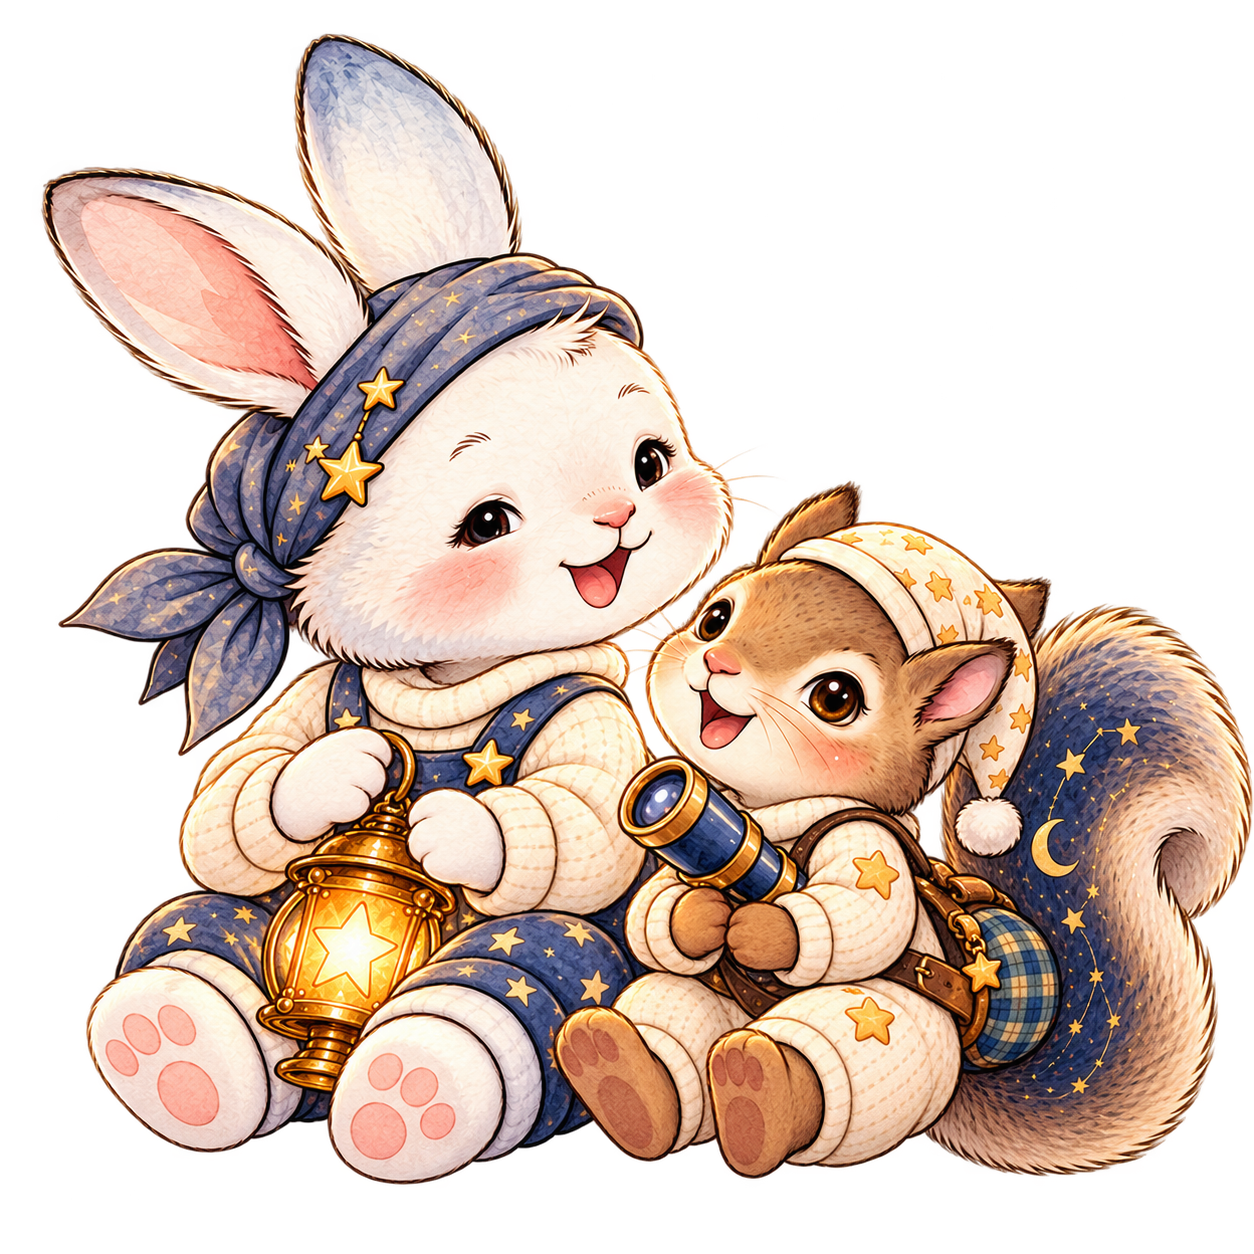
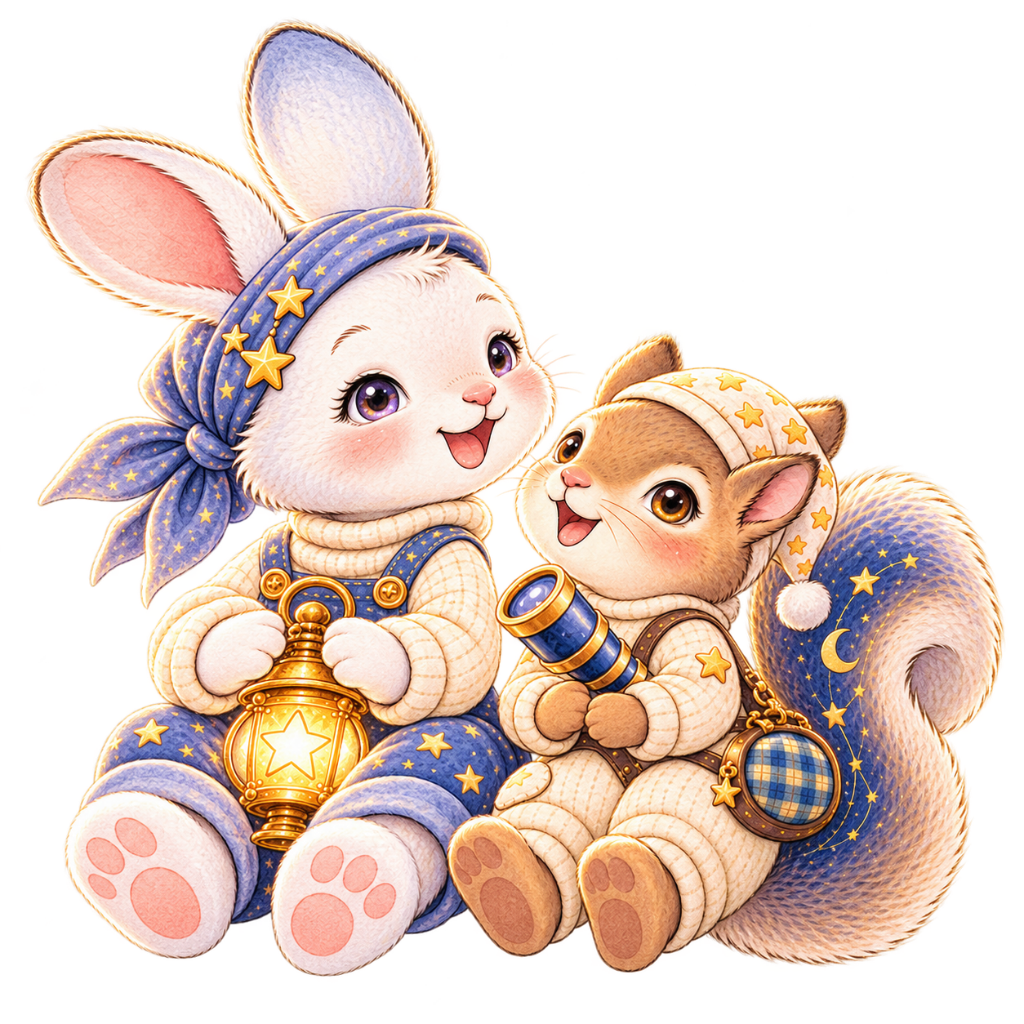
Replace intro art with new Lune & Pico designs; cache-bust intro images
- intro-cover-lune-pico.png (ja): walking/looking-back composition
- intro-lune-pico.png (en/ko): sitting/smiling composition
- File names kept; ?v=20261124 added to intro img src

Claude-Session: https://claude.ai/code/session_01LVGh7xgPiA2XyEN27wRH22

diff --git a/index.html b/index.html
@@ -59,7 +59,7 @@
 <body>
   <div class="sky"></div><div class="aurora"></div><div class="sky-decor" id="skyDecor" aria-hidden="true"></div>
   <main>
-    <section id="intro" class="screen active"><div class="hero-card"><img class="hero-art" id="introArt" src="./img/intro-cover-lune-pico.png" alt=""><div class="hero-overlay"><div class="hero-copy"><div class="brand">Rainy Muse</div><div class="subhead" id="subhead"></div><h1>Sleeping Stars</h1><p class="lead" id="lead"></p><p class="detail" id="detail"></p><div class="meta" id="meta"></div><button class="primary hero-start" id="start"></button><nav class="lang-switch" aria-label="Language"><a data-lang="ja" href="./">日本語</a><a data-lang="en" href="./en/">English</a><a data-lang="ko" href="./ko/">한국어</a></nav><p class="notice" id="notice"></p></div></div></div></section>
+    <section id="intro" class="screen active"><div class="hero-card"><img class="hero-art" id="introArt" src="./img/intro-cover-lune-pico.png?v=20261124" alt=""><div class="hero-overlay"><div class="hero-copy"><div class="brand">Rainy Muse</div><div class="subhead" id="subhead"></div><h1>Sleeping Stars</h1><p class="lead" id="lead"></p><p class="detail" id="detail"></p><div class="meta" id="meta"></div><button class="primary hero-start" id="start"></button><nav class="lang-switch" aria-label="Language"><a data-lang="ja" href="./">日本語</a><a data-lang="en" href="./en/">English</a><a data-lang="ko" href="./ko/">한국어</a></nav><p class="notice" id="notice"></p></div></div></div></section>
     <section id="quiz" class="screen quiz"><header class="quiz-head"><div class="step" id="step"></div><div class="progress"><i id="bar"></i></div><h2 id="fieldTitle"></h2><p class="hint" id="choiceGuide"></p><div class="counter"><span id="counterLabel"></span><strong id="count">0</strong></div></header><div class="star-words" id="words"></div><div class="quiz-actions"><button class="secondary" id="back"></button><button class="primary" id="next"></button></div></section>
     <section id="tie" class="screen tie"><div class="brand" id="tieBrand"></div><h2 id="tieTitle"></h2><p id="tieLead"></p><div class="tie-choices" id="tieChoices"></div></section>
     <section id="result" class="screen result"><div class="brand" id="resultBrand"></div><h2 id="resultType"></h2><p class="result-sub" id="resultName"></p><div class="constellation" id="constellation"></div><div class="panel"><h3 id="pickedTitle"></h3><div class="picked" id="picked"></div></div><div class="insights"><article class="panel"><h3 id="insight0"></h3><p id="attract"></p></article><article class="panel"><h3 id="insight1"></h3><p id="value"></p></article><article class="panel"><h3 id="insight2"></h3><p id="tired"></p></article><article class="panel"><h3 id="insight3"></h3><p id="hintText"></p></article></div><article class="panel"><h3 id="overlapTitle"></h3><p id="blend"></p></article><section class="family-reveal"><p class="family-lead" id="familyLead"></p><div class="family-card"><div class="family-duo-wrap"><img id="familyDuoImage" class="family-duo-image" alt=""></div><p class="family-name" id="familyName"></p><p class="family-reading" id="familyReading"></p><p class="family-type" id="familyType"></p><p class="family-caption" id="familyCaption"></p></div></section><section class="save-area"><h3 id="saveTitle"></h3><p id="saveLead"></p><div class="save-actions"><button class="primary" id="saveWallpaper"></button><button class="secondary" id="saveShare"></button></div></section><div class="card-cta" id="cardCta" hidden><p id="cardLead"></p><img id="cardImg" alt=""><a class="card-button" id="cardLink" download></a></div><div class="cta" id="paidCta"><p id="paidLead"></p><div class="cta-card"><h3 id="paidHeading"></h3><ul id="paidFeatures" class="cta-features"></ul></div><a class="primary" id="paidLink" target="_blank" rel="noopener"></a></div><div class="line-cta" id="lineCta"><p id="lineLead"></p><a class="line-button" id="lineLink" target="_blank" rel="noopener"></a></div><div class="story-link"><p id="storyLead"></p><a id="storyLink" target="_blank" rel="noopener"></a><small id="storySource"></small></div><button class="secondary restart" id="restart"></button></section>

diff --git a/en/index.html b/en/index.html
@@ -30,7 +30,7 @@
 <body>
   <div class="sky"></div><div class="aurora"></div><div class="sky-decor" id="skyDecor" aria-hidden="true"></div>
   <main>
-    <section id="intro" class="screen active"><div class="intro-card"><div class="brand">Rainy Muse</div><div class="moon"></div><div class="subhead" id="subhead"></div><h1>Sleeping Stars</h1><p class="lead" id="lead"></p><p class="detail" id="detail"></p><img class="intro-art" id="introArt" src="../img/intro-lune-pico.png" alt=""><div class="meta" id="meta"></div><button class="primary" id="start"></button><nav class="lang-switch" aria-label="Language"><a data-lang="ja" href="../">日本語</a><a data-lang="en" href="../en/">English</a><a data-lang="ko" href="../ko/">한국어</a></nav><p class="notice" id="notice"></p></div></section>
+    <section id="intro" class="screen active"><div class="intro-card"><div class="brand">Rainy Muse</div><div class="moon"></div><div class="subhead" id="subhead"></div><h1>Sleeping Stars</h1><p class="lead" id="lead"></p><p class="detail" id="detail"></p><img class="intro-art" id="introArt" src="../img/intro-lune-pico.png?v=20261124" alt=""><div class="meta" id="meta"></div><button class="primary" id="start"></button><nav class="lang-switch" aria-label="Language"><a data-lang="ja" href="../">日本語</a><a data-lang="en" href="../en/">English</a><a data-lang="ko" href="../ko/">한국어</a></nav><p class="notice" id="notice"></p></div></section>
     <section id="quiz" class="screen quiz"><header class="quiz-head"><div class="step" id="step"></div><div class="progress"><i id="bar"></i></div><h2 id="fieldTitle"></h2><p class="hint" id="choiceGuide"></p><div class="counter"><span id="counterLabel"></span><strong id="count">0</strong></div></header><div class="star-words" id="words"></div><div class="quiz-actions"><button class="secondary" id="back"></button><button class="primary" id="next"></button></div></section>
     <section id="tie" class="screen tie"><div class="brand" id="tieBrand"></div><h2 id="tieTitle"></h2><p id="tieLead"></p><div class="tie-choices" id="tieChoices"></div></section>
     <section id="result" class="screen result"><div class="brand" id="resultBrand"></div><h2 id="resultType"></h2><p class="result-sub" id="resultName"></p><div class="constellation" id="constellation"></div><div class="panel"><h3 id="pickedTitle"></h3><div class="picked" id="picked"></div></div><div class="insights"><article class="panel"><h3 id="insight0"></h3><p id="attract"></p></article><article class="panel"><h3 id="insight1"></h3><p id="value"></p></article><article class="panel"><h3 id="insight2"></h3><p id="tired"></p></article><article class="panel"><h3 id="insight3"></h3><p id="hintText"></p></article></div><article class="panel"><h3 id="overlapTitle"></h3><p id="blend"></p></article><section class="family-reveal"><p class="family-lead" id="familyLead"></p><div class="family-card"><div class="family-duo-wrap"><img id="familyDuoImage" class="family-duo-image" alt=""></div><p class="family-name" id="familyName"></p><p class="family-reading" id="familyReading" hidden></p><p class="family-type" id="familyType"></p><p class="family-caption" id="familyCaption"></p></div></section><section class="save-area"><h3 id="saveTitle"></h3><p id="saveLead"></p><div class="save-actions"><button class="primary" id="saveWallpaper"></button><button class="secondary" id="saveShare"></button></div></section><div class="card-cta" id="cardCta" hidden><p id="cardLead"></p><img id="cardImg" alt=""><a class="card-button" id="cardLink" download></a></div><div class="cta"><p id="paidLead"></p><a class="primary" id="paidLink" target="_blank" rel="noopener"></a></div><div class="story-link"><p id="storyLead"></p><a id="storyLink" target="_blank" rel="noopener"></a><small id="storySource"></small></div><button class="secondary restart" id="restart"></button></section>

diff --git a/ko/index.html b/ko/index.html
@@ -30,7 +30,7 @@
 <body>
   <div class="sky"></div><div class="aurora"></div><div class="sky-decor" id="skyDecor" aria-hidden="true"></div>
   <main>
-    <section id="intro" class="screen active"><div class="intro-card"><div class="brand">Rainy Muse</div><div class="moon"></div><div class="subhead" id="subhead"></div><h1>Sleeping Stars</h1><p class="lead" id="lead"></p><p class="detail" id="detail"></p><img class="intro-art" id="introArt" src="../img/intro-lune-pico.png" alt=""><div class="meta" id="meta"></div><button class="primary" id="start"></button><nav class="lang-switch" aria-label="Language"><a data-lang="ja" href="../">日本語</a><a data-lang="en" href="../en/">English</a><a data-lang="ko" href="../ko/">한국어</a></nav><p class="notice" id="notice"></p></div></section>
+    <section id="intro" class="screen active"><div class="intro-card"><div class="brand">Rainy Muse</div><div class="moon"></div><div class="subhead" id="subhead"></div><h1>Sleeping Stars</h1><p class="lead" id="lead"></p><p class="detail" id="detail"></p><img class="intro-art" id="introArt" src="../img/intro-lune-pico.png?v=20261124" alt=""><div class="meta" id="meta"></div><button class="primary" id="start"></button><nav class="lang-switch" aria-label="Language"><a data-lang="ja" href="../">日本語</a><a data-lang="en" href="../en/">English</a><a data-lang="ko" href="../ko/">한국어</a></nav><p class="notice" id="notice"></p></div></section>
     <section id="quiz" class="screen quiz"><header class="quiz-head"><div class="step" id="step"></div><div class="progress"><i id="bar"></i></div><h2 id="fieldTitle"></h2><p class="hint" id="choiceGuide"></p><div class="counter"><span id="counterLabel"></span><strong id="count">0</strong></div></header><div class="star-words" id="words"></div><div class="quiz-actions"><button class="secondary" id="back"></button><button class="primary" id="next"></button></div></section>
     <section id="tie" class="screen tie"><div class="brand" id="tieBrand"></div><h2 id="tieTitle"></h2><p id="tieLead"></p><div class="tie-choices" id="tieChoices"></div></section>
     <section id="result" class="screen result"><div class="brand" id="resultBrand"></div><h2 id="resultType"></h2><p class="result-sub" id="resultName"></p><div class="constellation" id="constellation"></div><div class="panel"><h3 id="pickedTitle"></h3><div class="picked" id="picked"></div></div><div class="insights"><article class="panel"><h3 id="insight0"></h3><p id="attract"></p></article><article class="panel"><h3 id="insight1"></h3><p id="value"></p></article><article class="panel"><h3 id="insight2"></h3><p id="tired"></p></article><article class="panel"><h3 id="insight3"></h3><p id="hintText"></p></article></div><article class="panel"><h3 id="overlapTitle"></h3><p id="blend"></p></article><section class="family-reveal"><p class="family-lead" id="familyLead"></p><div class="family-card"><div class="family-duo-wrap"><img id="familyDuoImage" class="family-duo-image" alt=""></div><p class="family-name" id="familyName"></p><p class="family-reading" id="familyReading" hidden></p><p class="family-type" id="familyType"></p><p class="family-caption" id="familyCaption"></p></div></section><section class="save-area"><h3 id="saveTitle"></h3><p id="saveLead"></p><div class="save-actions"><button class="primary" id="saveWallpaper"></button><button class="secondary" id="saveShare"></button></div></section><div class="card-cta" id="cardCta" hidden><p id="cardLead"></p><img id="cardImg" alt=""><a class="card-button" id="cardLink" download></a></div><div class="cta"><p id="paidLead"></p><a class="primary" id="paidLink" target="_blank" rel="noopener"></a></div><div class="story-link"><p id="storyLead"></p><a id="storyLink" target="_blank" rel="noopener"></a><small id="storySource"></small></div><button class="secondary restart" id="restart"></button></section>
